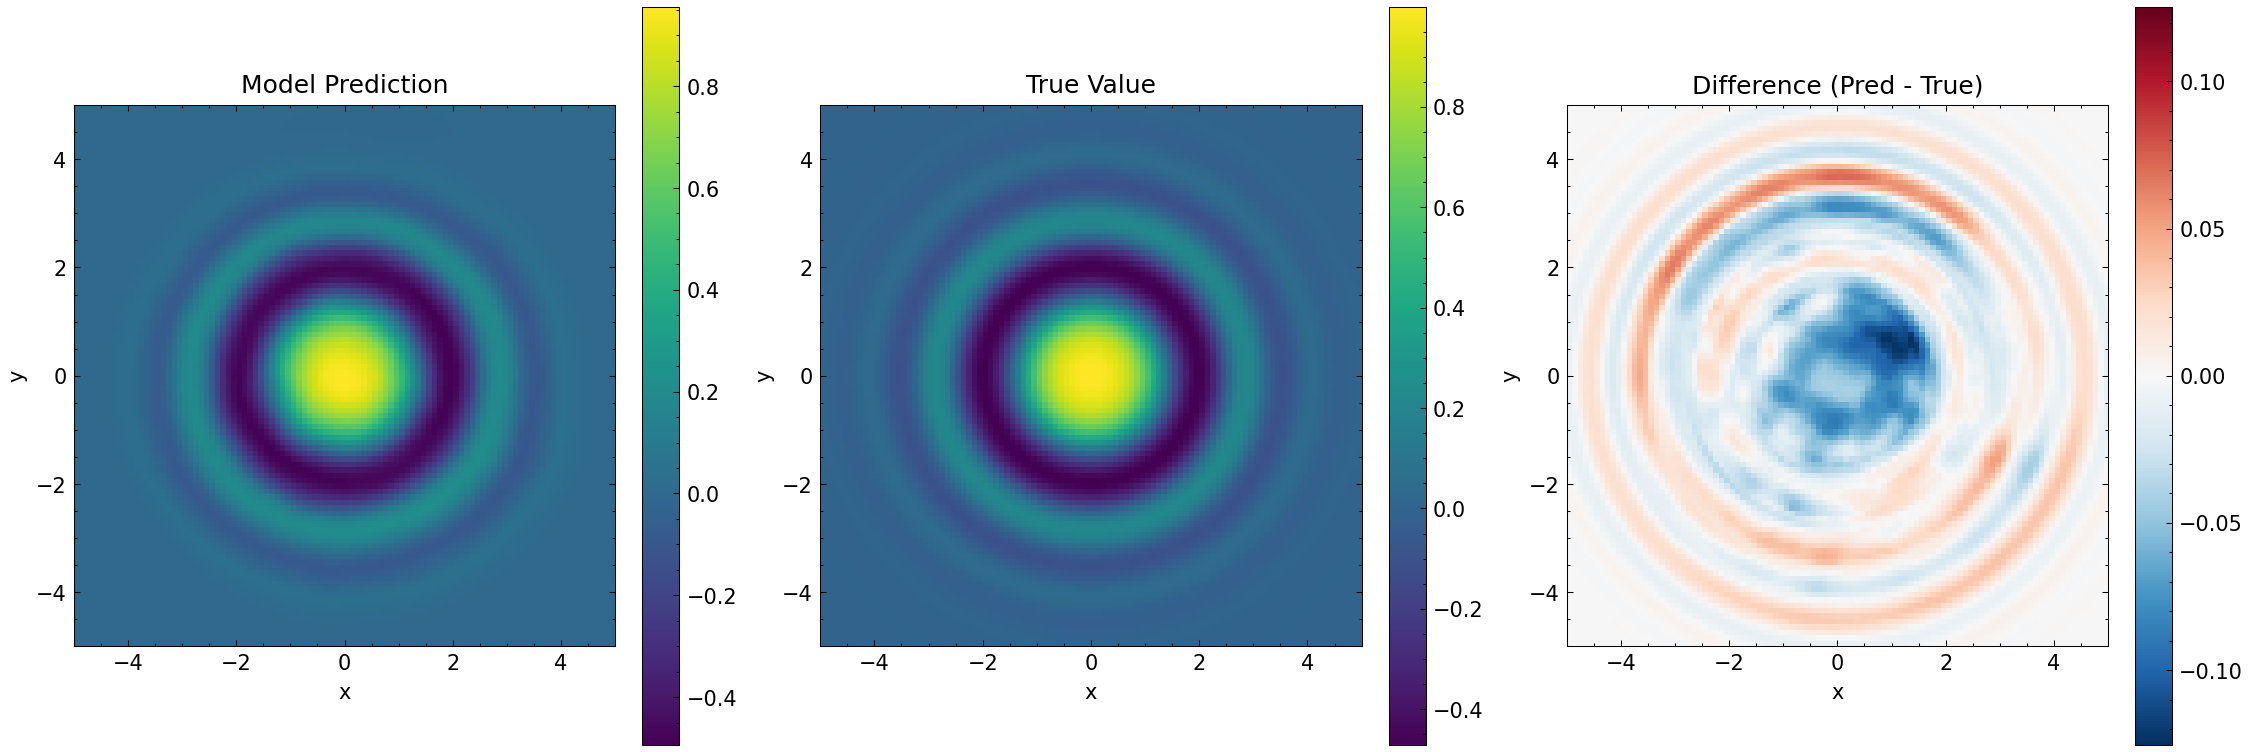
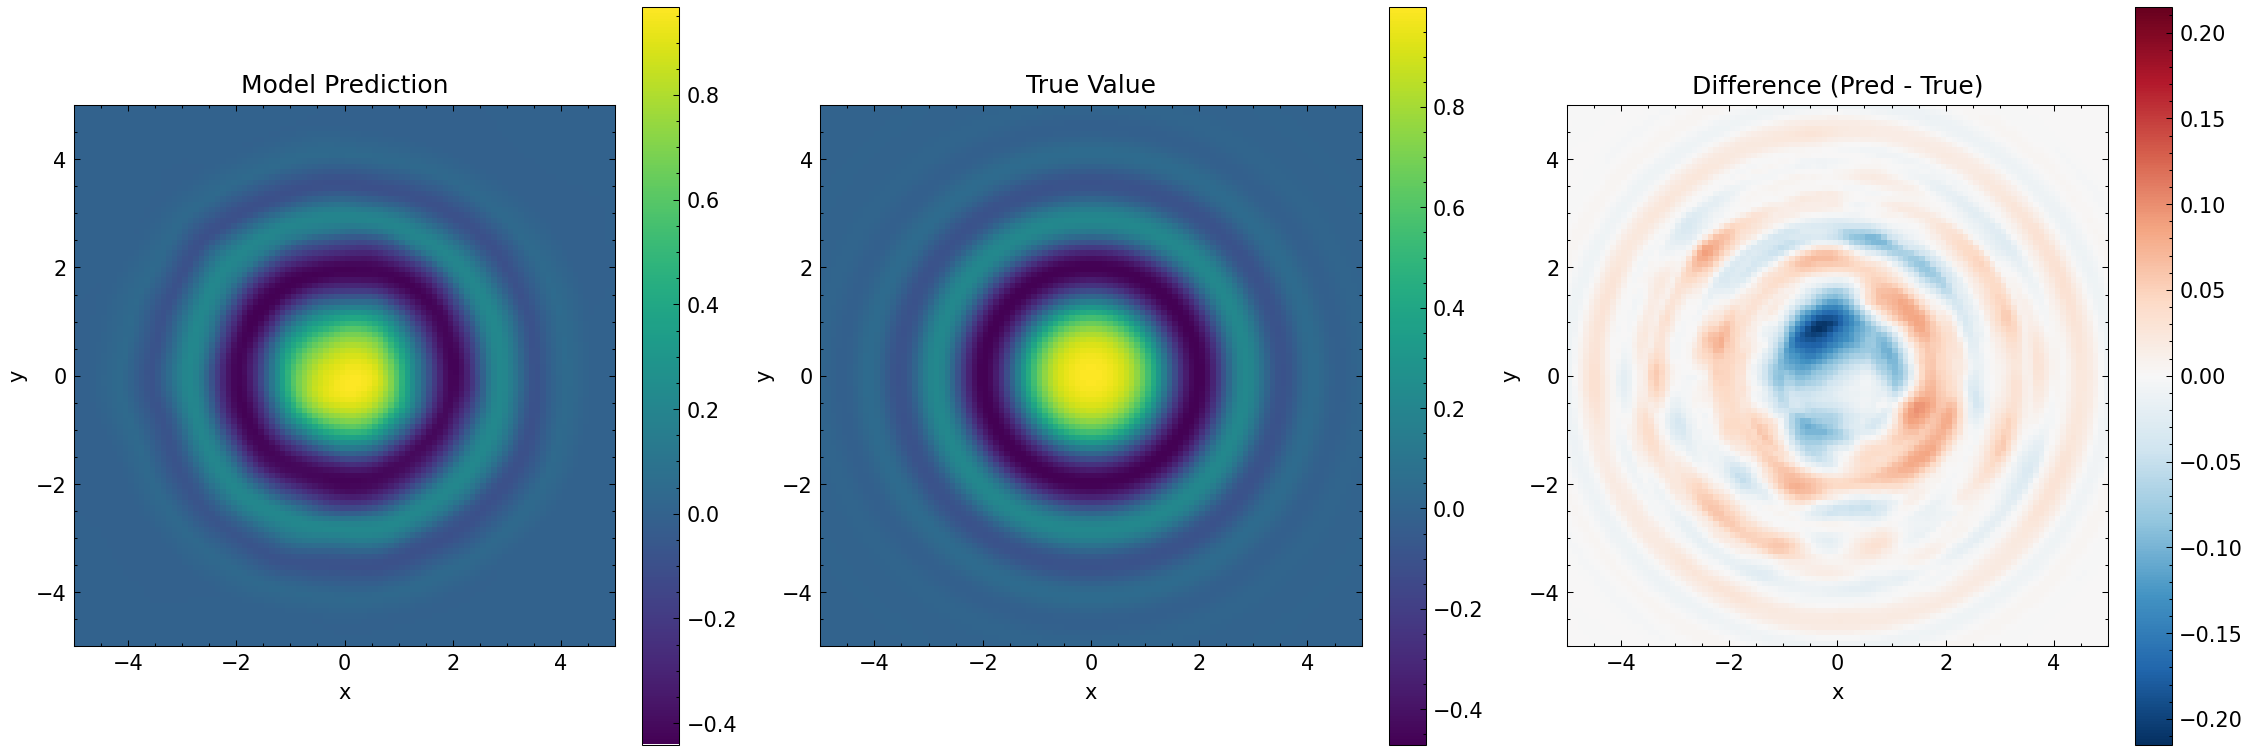
implement head

diff --git a/train.py b/train.py
@@ -44,9 +44,10 @@ def set_model_seed(seed):
     torch.backends.cudnn.deterministic = True
     torch.backends.cudnn.benchmark = False
 
-def train(model, loss_fn, loader, optimizer, symmetry_layer=None, lambda_sym=0.0, augmentation_generator=None):
+def train(model, loss_fn, loader, optimizer, symmetry_layer=None, lambda_sym=0.0, mu_head=0.0, augmentation_generator=None):
     task_batch_losses = []
     sym_batch_losses = []
+    head_batch_losses = []
     model.train()
     for xb, yb in loader:
         xb = xb.to(device)
@@ -56,30 +57,43 @@ def train(model, loss_fn, loader, optimizer, symmetry_layer=None, lambda_sym=0.0
         pred = model(xb)
         task_loss = loss_fn(pred, yb)
         
-        # Compute symmetry loss if enabled
+        # Compute symmetry loss if enabled (using auxiliary head if available)
         sym_loss = 0.0
+        head_loss = 0.0
         if symmetry_layer is not None and lambda_sym > 0:
-            sym_loss = so3_orbit_variance_loss(model, xb, symmetry_layer, generator=augmentation_generator)
+            sym_loss = so3_orbit_variance_loss(
+                model, xb, symmetry_layer, 
+                aux_head=model.aux_head, 
+                generator=augmentation_generator
+            )
+        
+        # Compute auxiliary head task loss (deep supervision) if enabled
+        if model.aux_head is not None and mu_head > 0:
+            aux_pred = model.forward_aux_head(xb)
+            head_loss = loss_fn(aux_pred, yb)
         
         # Track losses separately
         task_batch_losses.append(task_loss.item())
         sym_batch_losses.append(sym_loss.item() if isinstance(sym_loss, torch.Tensor) else sym_loss)
+        head_batch_losses.append(head_loss.item() if isinstance(head_loss, torch.Tensor) else head_loss)
         
-        # Total loss for backprop
-        total_loss = task_loss + lambda_sym * sym_loss
+        # Total loss for backprop: L = L_task + λ L_sym + μ L_head
+        total_loss = task_loss + lambda_sym * sym_loss + mu_head * head_loss
         total_loss.backward()
         optimizer.step()
     
     avg_task_loss = sum(task_batch_losses) / len(task_batch_losses)
     avg_sym_loss = sum(sym_batch_losses) / len(sym_batch_losses) if sym_batch_losses else 0.0
+    avg_head_loss = sum(head_batch_losses) / len(head_batch_losses) if head_batch_losses else 0.0
     
-    return avg_task_loss, avg_sym_loss, task_batch_losses, sym_batch_losses
+    return avg_task_loss, avg_sym_loss, avg_head_loss, task_batch_losses, sym_batch_losses, head_batch_losses
 
 def evaluate(model, loss_fn, loader, symmetry_layer=None, augmentation_generator=None):
     model.eval()
     with torch.no_grad():
         task_loss = 0
         sym_loss = 0
+        head_loss = 0
         for xb, yb in loader:
             xb = xb.to(device)
             yb = yb.to(device)
@@ -88,13 +102,24 @@ def evaluate(model, loss_fn, loader, symmetry_layer=None, augmentation_generator
             task_loss += loss_fn(pred, yb).item()
             
             if symmetry_layer is not None:
-                sym_loss += so3_orbit_variance_loss(model, xb, symmetry_layer, generator=augmentation_generator).item()
+                sym_loss += so3_orbit_variance_loss(
+                    model, xb, symmetry_layer, 
+                    aux_head=model.aux_head,
+                    generator=augmentation_generator
+                ).item()
+            
+            if model.aux_head is not None:
+                aux_pred = model.forward_aux_head(xb)
+                head_loss += loss_fn(aux_pred, yb).item()
+                
         task_loss /= len(loader)
         if symmetry_layer is not None:
             sym_loss /= len(loader)
-        return task_loss, sym_loss
+        if model.aux_head is not None:
+            head_loss /= len(loader)
+        return task_loss, sym_loss, head_loss
 
-def main(headless=False, symmetry_layer=-1, lambda_sym_max=1.0, learning_rate=3e-4, num_hidden_layers=6, hidden_dim=128, run_seed=42):
+def main(headless=False, symmetry_layer=-1, lambda_sym_max=1.0, mu_head=0.0, learning_rate=3e-4, num_hidden_layers=6, hidden_dim=128, run_seed=42):
     """
     Main training function.
     
@@ -102,6 +127,7 @@ def main(headless=False, symmetry_layer=-1, lambda_sym_max=1.0, learning_rate=3e
         headless: If True, skip plotting and visualization
         symmetry_layer: Layer index for symmetry loss (None to disable)
         lambda_sym_max: Maximum lambda_sym value for 1-cosine schedule (min is always 0.0)
+        mu_head: Weight for auxiliary head task loss (deep supervision)
         learning_rate: Learning rate for optimizer
         num_hidden_layers: Number of hidden layers
         hidden_dim: Size of each hidden layer (default: 128)
@@ -109,7 +135,7 @@ def main(headless=False, symmetry_layer=-1, lambda_sym_max=1.0, learning_rate=3e
     
     Returns:
         Dictionary with keys: learning_rate, lambda_sym_max, lambda_sym_min, 
-        symmetry_layer, test_task_loss, test_sym_loss
+        symmetry_layer, mu_head, test_task_loss, test_sym_loss, test_head_loss
     """
     lambda_sym_min = 0.0  # Always zero
     
@@ -140,7 +166,14 @@ def main(headless=False, symmetry_layer=-1, lambda_sym_max=1.0, learning_rate=3e
     # For num_hidden_layers=6, hidden_dim=128: [128, 128, 128, 128, 128, 128] -> 6 hidden layers
     hidden_dims = [hidden_dim] * num_hidden_layers
     dims = [3, *hidden_dims, 1]
-    model = MLP(dims).to(device)
+    
+    # Determine aux_head_layer: only create if symmetry_layer is a valid hidden layer (not -1 or None)
+    # aux_head_layer must be between 1 and num_linear_layers - 1
+    aux_head_layer = None
+    if symmetry_layer is not None and symmetry_layer != -1:
+        aux_head_layer = symmetry_layer
+    
+    model = MLP(dims, aux_head_layer=aux_head_layer).to(device)
     
     # Create augmentation generator (will be moved to device when used)
     augmentation_generator = torch.Generator(device=device).manual_seed(augmentation_seed)
@@ -154,9 +187,12 @@ def main(headless=False, symmetry_layer=-1, lambda_sym_max=1.0, learning_rate=3e
     val_task_losses = []
     train_task_batch_losses = []
     train_sym_batch_losses = []
+    train_head_batch_losses = []
     lambda_sym_values = []
     train_sym_losses = []
     val_sym_losses = []
+    train_head_losses = []
+    val_head_losses = []
     
     for epoch in pbar:
         # Compute lambda_sym with 1-cosine schedule (min to max)
@@ -165,10 +201,13 @@ def main(headless=False, symmetry_layer=-1, lambda_sym_max=1.0, learning_rate=3e
         lambda_sym = lambda_sym_min + (lambda_sym_max - lambda_sym_min) * (1 - np.cos(np.pi * progress)) / 2
         lambda_sym_values.append(lambda_sym)
         
-        train_task_loss, train_sym_loss, task_batch_losses, sym_batch_losses = train(model, loss_fn, train_loader, optimizer, symmetry_layer, lambda_sym, augmentation_generator)
+        train_task_loss, train_sym_loss, train_head_loss, task_batch_losses, sym_batch_losses, head_batch_losses = train(
+            model, loss_fn, train_loader, optimizer, symmetry_layer, lambda_sym, mu_head, augmentation_generator
+        )
         train_task_batch_losses.extend(task_batch_losses)
         train_sym_batch_losses.extend(sym_batch_losses)
-        val_task_loss, val_sym_loss = evaluate(model, loss_fn, val_loader, symmetry_layer, augmentation_generator)
+        train_head_batch_losses.extend(head_batch_losses)
+        val_task_loss, val_sym_loss, val_head_loss = evaluate(model, loss_fn, val_loader, symmetry_layer, augmentation_generator)
 
         
         train_task_losses.append(train_task_loss)
@@ -176,14 +215,18 @@ def main(headless=False, symmetry_layer=-1, lambda_sym_max=1.0, learning_rate=3e
         avg_train_sym_loss = sum(sym_batch_losses) / len(sym_batch_losses) if sym_batch_losses else 0.0
         train_sym_losses.append(avg_train_sym_loss)
         val_sym_losses.append(val_sym_loss)
+        avg_train_head_loss = sum(head_batch_losses) / len(head_batch_losses) if head_batch_losses else 0.0
+        train_head_losses.append(avg_train_head_loss)
+        val_head_losses.append(val_head_loss)
         
         pbar.set_postfix({
             'task': f'{train_task_loss:.2e}', 
             'sym': f'{train_sym_loss:.2e}',
+            'head': f'{train_head_loss:.2e}',
             'val': f'{val_task_loss:.2e}',
         })
 
-    test_task_loss, test_sym_loss = evaluate(model, loss_fn, test_loader, symmetry_layer, augmentation_generator)
+    test_task_loss, test_sym_loss, test_head_loss = evaluate(model, loss_fn, test_loader, symmetry_layer, augmentation_generator)
     
     # Print data section
     print('\n' + '='*25)
@@ -198,9 +241,10 @@ def main(headless=False, symmetry_layer=-1, lambda_sym_max=1.0, learning_rate=3e
     print('\n' + '='*25)
     print('CONFIGURATION')
     print('='*25)
-    print(f'Learning rate:     {lr:.2e}')
+    print(f'Learning rate:      {lr:.2e}')
     print(f'Symmetry layer:     {symmetry_layer}')
-    print(f'Lambda symmetry:   {lambda_sym_min:.4f} -> {lambda_sym_max:.4f}')
+    print(f'Lambda symmetry:    {lambda_sym_min:.4f} -> {lambda_sym_max:.4f}')
+    print(f'Mu head:            {mu_head:.4f}')
     print('='*25)
     
     # Print results section
@@ -209,6 +253,7 @@ def main(headless=False, symmetry_layer=-1, lambda_sym_max=1.0, learning_rate=3e
     print('='*25)
     print(f'Test task loss:     {test_task_loss:.4e}')
     print(f'Test symmetry loss: {f"{test_sym_loss:.4e}" if symmetry_layer is not None else "N/A"}')
+    print(f'Test head loss:     {f"{test_head_loss:.4e}" if model.aux_head is not None else "N/A"}')
 
     # Only plot if not in headless mode
     if not headless:
@@ -223,8 +268,10 @@ def main(headless=False, symmetry_layer=-1, lambda_sym_max=1.0, learning_rate=3e
         'lambda_sym_max': lambda_sym_max,
         'lambda_sym_min': lambda_sym_min,
         'symmetry_layer': symmetry_layer,
+        'mu_head': mu_head,
         'test_task_loss': test_task_loss,
-        'test_sym_loss': test_sym_loss if symmetry_layer is not None else None
+        'test_sym_loss': test_sym_loss if symmetry_layer is not None else None,
+        'test_head_loss': test_head_loss if model.aux_head is not None else None
     }
 
 
@@ -243,6 +290,8 @@ if __name__ == '__main__':
                         help='Layer index for symmetry loss (-1 for last layer, "None" to disable)')
     parser.add_argument('--lambda-sym-max', type=float, default=1.0,
                         help='Maximum lambda_sym value for 1-cosine schedule (default: 1.0)')
+    parser.add_argument('--mu-head', type=float, default=0.0,
+                        help='Weight for auxiliary head task loss (deep supervision) (default: 0.0)')
     parser.add_argument('--num-hidden-layers', type=int, default=6,
                         help='Number of hidden layers (default: 6)')
     parser.add_argument('--hidden-dim', type=int, default=128,
@@ -260,6 +309,7 @@ if __name__ == '__main__':
         headless=args.headless,
         symmetry_layer=args.symmetry_layer,
         lambda_sym_max=args.lambda_sym_max,
+        mu_head=args.mu_head,
         learning_rate=args.learning_rate,
         num_hidden_layers=args.num_hidden_layers,
         hidden_dim=args.hidden_dim,

diff --git a/models.py b/models.py
@@ -3,15 +3,19 @@ import torch.nn as nn
 
 
 class MLP(nn.Module):
-    def __init__(self, dims: list[int], act=nn.ReLU):
+    def __init__(self, dims: list[int], act=nn.ReLU, aux_head_layer: int = None):
         """
         Args:
             dims: List of layer sizes, including input and output.
                   Example: [3, 128, 128, 1]
             act: Activation class to use between linear layers (default: ReLU).
+            aux_head_layer: Optional layer index (1-based) to attach an auxiliary head.
+                  If specified, creates a linear projection from that layer's output
+                  dimension to the final output dimension.
         """
         super().__init__()
         
+        self.dims = dims
         layers = []
         for i in range(1, len(dims)):
             layers.append(nn.Linear(dims[i-1], dims[i]))
@@ -20,6 +24,20 @@ class MLP(nn.Module):
 
         self.layers = nn.Sequential(*layers)
         self.num_linear_layers = len(dims) - 1
+        
+        # Create auxiliary head if specified
+        self.aux_head_layer = aux_head_layer
+        self.aux_head = None
+        if aux_head_layer is not None:
+            if aux_head_layer < 1 or aux_head_layer >= self.num_linear_layers:
+                raise ValueError(
+                    f"aux_head_layer must be between 1 and {self.num_linear_layers - 1}, "
+                    f"got {aux_head_layer}"
+                )
+            # dims[aux_head_layer] is the output dimension of that layer
+            hidden_dim = dims[aux_head_layer]
+            output_dim = dims[-1]
+            self.aux_head = nn.Linear(hidden_dim, output_dim)
 
     def forward(self, x):
         return self.layers(x)
@@ -60,4 +78,25 @@ class MLP(nn.Module):
                     return h
 
         raise RuntimeError("Failed to retrieve intermediate activation.")
+
+    def forward_aux_head(self, x):
+        """
+        Forward pass through the auxiliary head.
+        
+        Args:
+            x: Input tensor of shape (batch_size, d_in)
+        
+        Returns:
+            Auxiliary head output tensor of shape (batch_size, output_dim)
+        
+        Raises:
+            RuntimeError: If no auxiliary head is configured
+        """
+        if self.aux_head is None:
+            raise RuntimeError("No auxiliary head configured. Set aux_head_layer in __init__.")
+        
+        # Get intermediate activations at the auxiliary head layer
+        h = self.forward_with_intermediate(x, self.aux_head_layer)
+        # Apply the auxiliary head
+        return self.aux_head(h)
 

diff --git a/symmetry.py b/symmetry.py
@@ -24,7 +24,22 @@ def sample_so3_rotation(batch_size, device="cpu", dtype=torch.float32, eps=1e-8,
     return R
 
 
-def so3_orbit_variance_loss(model, x, layer_idx, generator=None):
+def so3_orbit_variance_loss(model, x, layer_idx, aux_head=None, generator=None):
+    """
+    Compute SO(3) orbit variance loss at a specified layer.
+    
+    Args:
+        model: MLP model with forward_with_intermediate method
+        x: Input tensor of shape (batch_size, 3)
+        layer_idx: Layer index for intermediate activations
+        aux_head: Optional nn.Linear auxiliary head to apply to intermediate
+                  activations before computing variance. If None, uses raw
+                  intermediate activations.
+        generator: Optional torch.Generator for reproducible rotations
+    
+    Returns:
+        Scalar loss tensor
+    """
     B, D = x.shape
     assert D == 3
     device, dtype = x.device, x.dtype
@@ -37,6 +52,11 @@ def so3_orbit_variance_loss(model, x, layer_idx, generator=None):
 
     h1 = model.forward_with_intermediate(x_rot1, layer_idx)
     h2 = model.forward_with_intermediate(x_rot2, layer_idx)
+
+    # Apply auxiliary head if provided
+    if aux_head is not None:
+        h1 = aux_head(h1)
+        h2 = aux_head(h2)
 
     diff = h1 - h2
     return 0.5 * (diff.pow(2).sum(dim=1)).mean()
